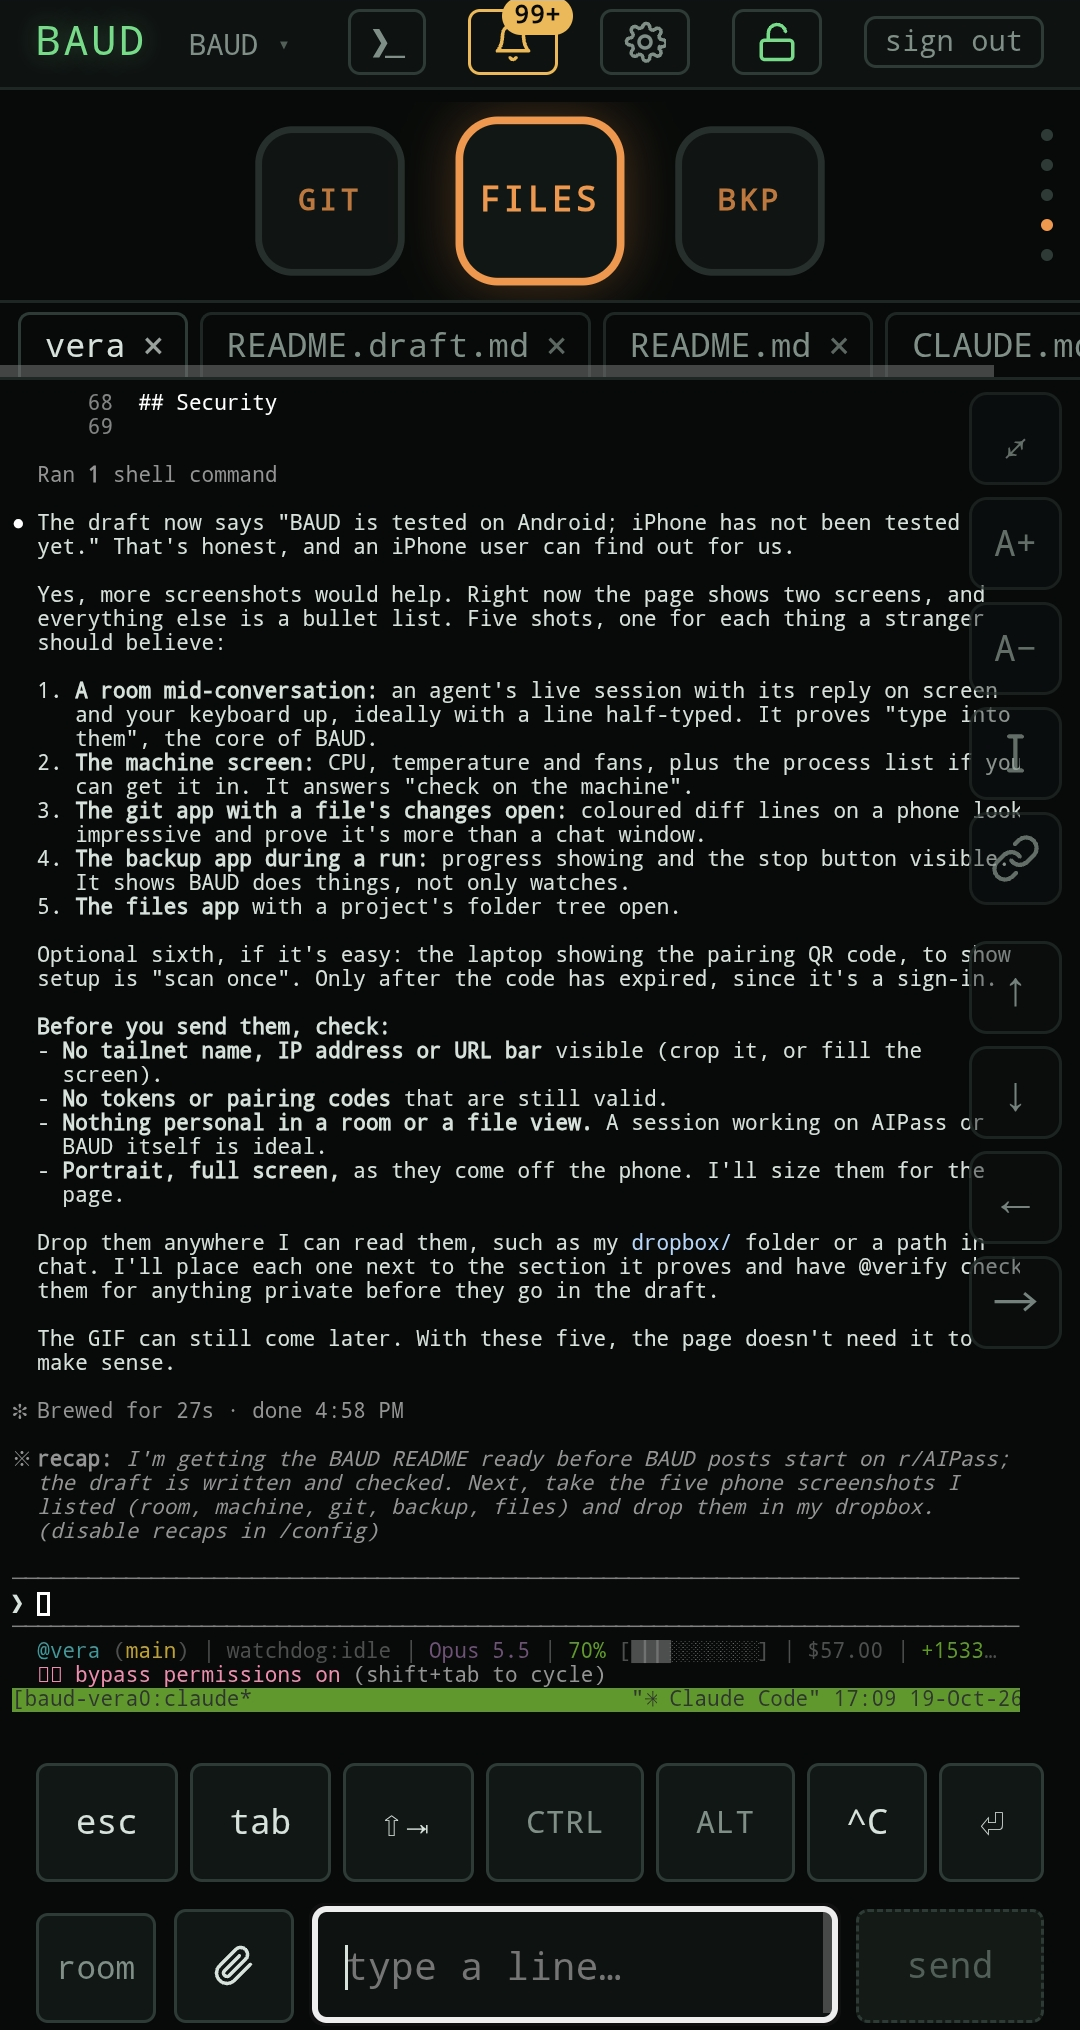
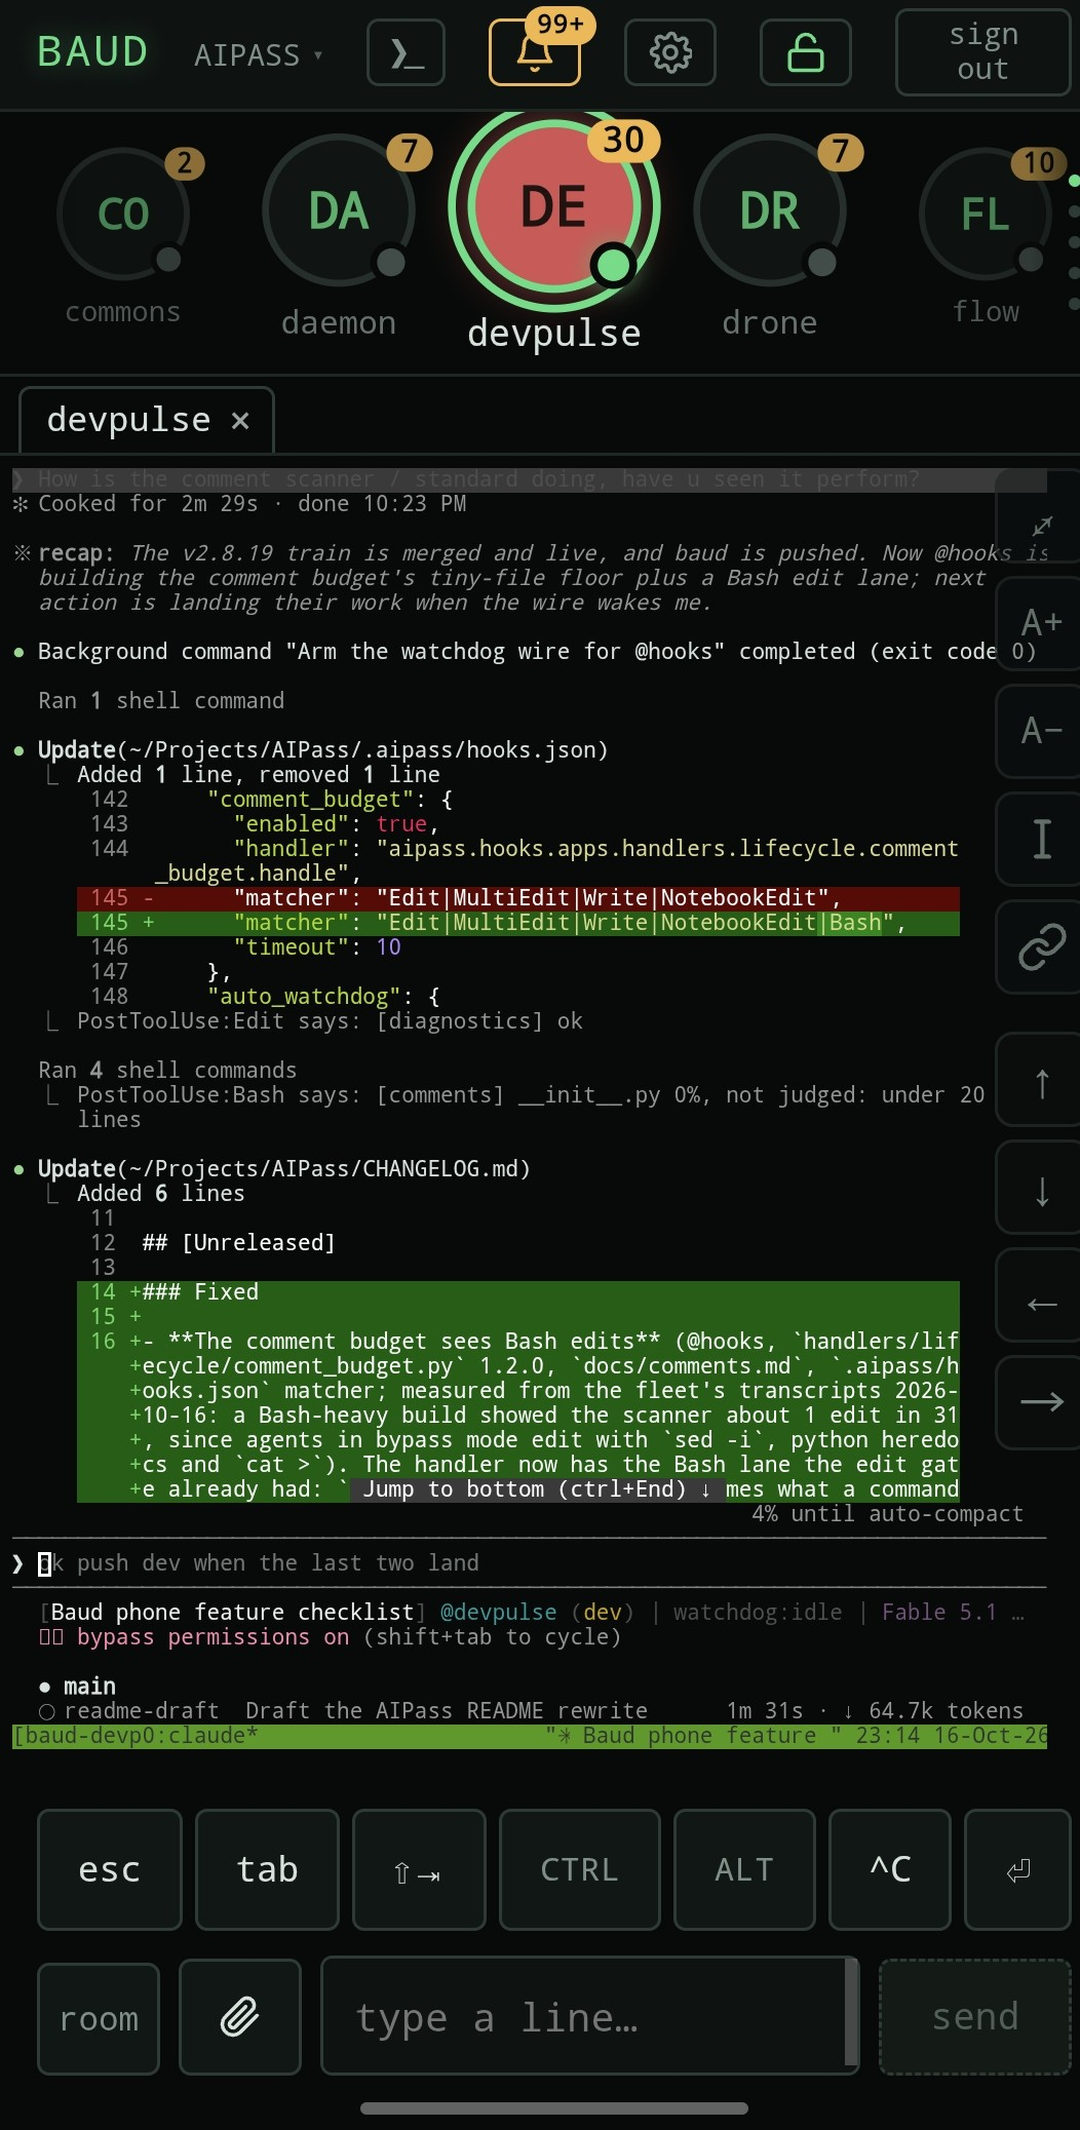
docs(readme): the owner's room and monitor-wheel shots
On the owner's ask, his own picks, applied by devpulse in this tree:
baud-room.png is his crop of a room under the wheel (1080x2130), so tap an
agent, its room opens; baud-monitor-wheel.png (1080x319, new) is the
wheel's monitor page as a banner under The machine; baud-monitor.png is
recut to 1080x1137, ending under the sampled line. Alt texts follow.
No IP, URL bar, token or pairing code in any frame. MAP row reworded.

diff --git a/MAP.md b/MAP.md
@@ -152,7 +152,7 @@ headless and checks its `ldd`; after touching the `gui` gate, run
 | `CONTRIBUTING.md` | How to contribute: fork, branch off `dev`, PR against `dev`, and the checks CI runs. |
 | `CHANGELOG.md` | Keep a Changelog shape: what each release changed, and the Unreleased lines waiting for the next. Every row that lands adds its line. |
 | `SECURITY.md` | The security model (your machine, your tailnet, per-device tokens, what a token reaches) and how to report. Dated; it moves after the scheduled security session. |
-| `docs/assets/` | The README's phone screenshots: the wheel hero, one picture beside each part of What you get (card, room, machine, the three apps), and three spares (the wheel over a live log, settings, git changes). |
+| `docs/assets/` | The README's phone screenshots: the wheel hero, the pictures beside each part of What you get (card, room, the monitor wheel over the CPU tile, the three apps), and three spares (the wheel over a live log, settings, git changes). |
 | `docs/design/` | Approved design artefacts (the wheel mockup). |
 | `docs/architecture.md` | How BAUD reads the fleet, the three rules everything else follows from, the type seam, and the Rust backend's files. |
 | `docs/desktop.md` | The desktop window's index: running it, the face's files, the camera, the command surface, the layout, and the table of the pages below. |

diff --git a/README.md b/README.md
@@ -23,13 +23,16 @@
 **Rooms.** An agent's live terminal session. Read it, type into it, send it a photo.
 
 <p align="center">
-  <img src="docs/assets/baud-room.png" alt="A room: an agent's live session, with a key row and a line to type into" width="280">
+  <img src="docs/assets/baud-room.png" alt="A room under the wheel: an agent's live session, with a key row and a line to type into" width="280">
 </p>
 
 **The machine.** CPU, memory, temperature, fans, network, processes and battery, live.
 
 <p align="center">
-  <img src="docs/assets/baud-monitor.png" alt="The machine: CPU busy per core and load averages" width="280">
+  <img src="docs/assets/baud-monitor-wheel.png" alt="The wheel's monitor page: CPU, memory, temperature, fan and network tiles, live" width="760">
+</p>
+<p align="center">
+  <img src="docs/assets/baud-monitor.png" alt="The CPU tile opened: busy per core and load averages" width="280">
 </p>
 
 **Apps on the phone.** Files, git and backups for your projects.
